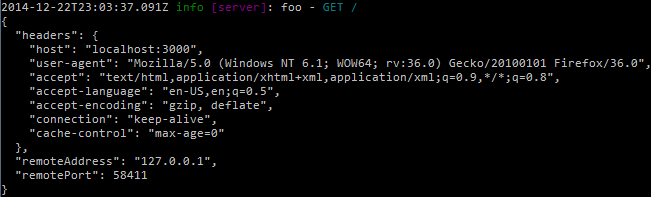
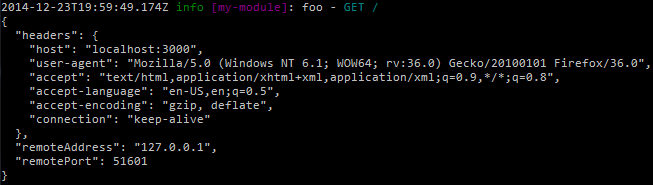
added color option

Changed region(s): [[0.0, 0.0, 1.0, 0.7027], [0.0, 0.7027, 0.3379, 0.9189], [0.0, 0.9189, 0.0307, 1.0]]

diff --git a/lib/index.js b/lib/index.js
@@ -34,10 +34,11 @@ var ConsoleStream = function (options){
 
 	options = options || {};
 
-	this._timestamp = options.timestamp || false;
-	this._hostname = options.hostname || false;
-	this._pid = options.pid || false;
+	this._timestamp = options.timestamp;
+	this._hostname = options.hostname;
+	this._pid = options.pid;
 	this._indent = options.indent || 2;
+	this._colors = options.colors || true;
 };
 
 util.inherits (ConsoleStream, stream.Writable);
@@ -83,13 +84,15 @@ ConsoleStream.prototype._write = function (chunk, encoding, cb){
 		}
 	}
 
-	process.stdout.write(str + "\n");
+	process.stdout.write (str + "\n");
 
 	cb ();
 };
 
 ConsoleStream.prototype._colorize = function (color, message){
-	return "\u001b[" + color + "m" + message + "\u001b[0m";
+	return this._colors
+			? "\u001b[" + color + "m" + message + "\u001b[0m"
+			: message;
 };
 
 module.exports = function (options){

diff --git a/README.md b/README.md
@@ -40,13 +40,15 @@ Returns a new Writable stream instance.
 Options:
 
 - __timestamp__ - _Boolean_
-  Includes the ISO string of the current time.
+  Includes the ISO string of the current time. Default false.
 - __hostname__ - _Boolean_
-  Includes the hostname of the current user.
+  Includes the hostname of the current user. Default false.
 - __pid__ - _Boolean_
-  Includes the pid of the current process.
+  Includes the pid of the current process. Default false.
 - __indent__ - _Number_
   Number of spaces for each level when objects are formatted. Default 2.
+- __colors__ - _Boolean_
+  Prints the message with colors. Default true.
 
 [npm-version-image]: http://img.shields.io/npm/v/bole-console.svg
 [npm-install-image]: https://nodei.co/npm/bole-console.png?mini=true
